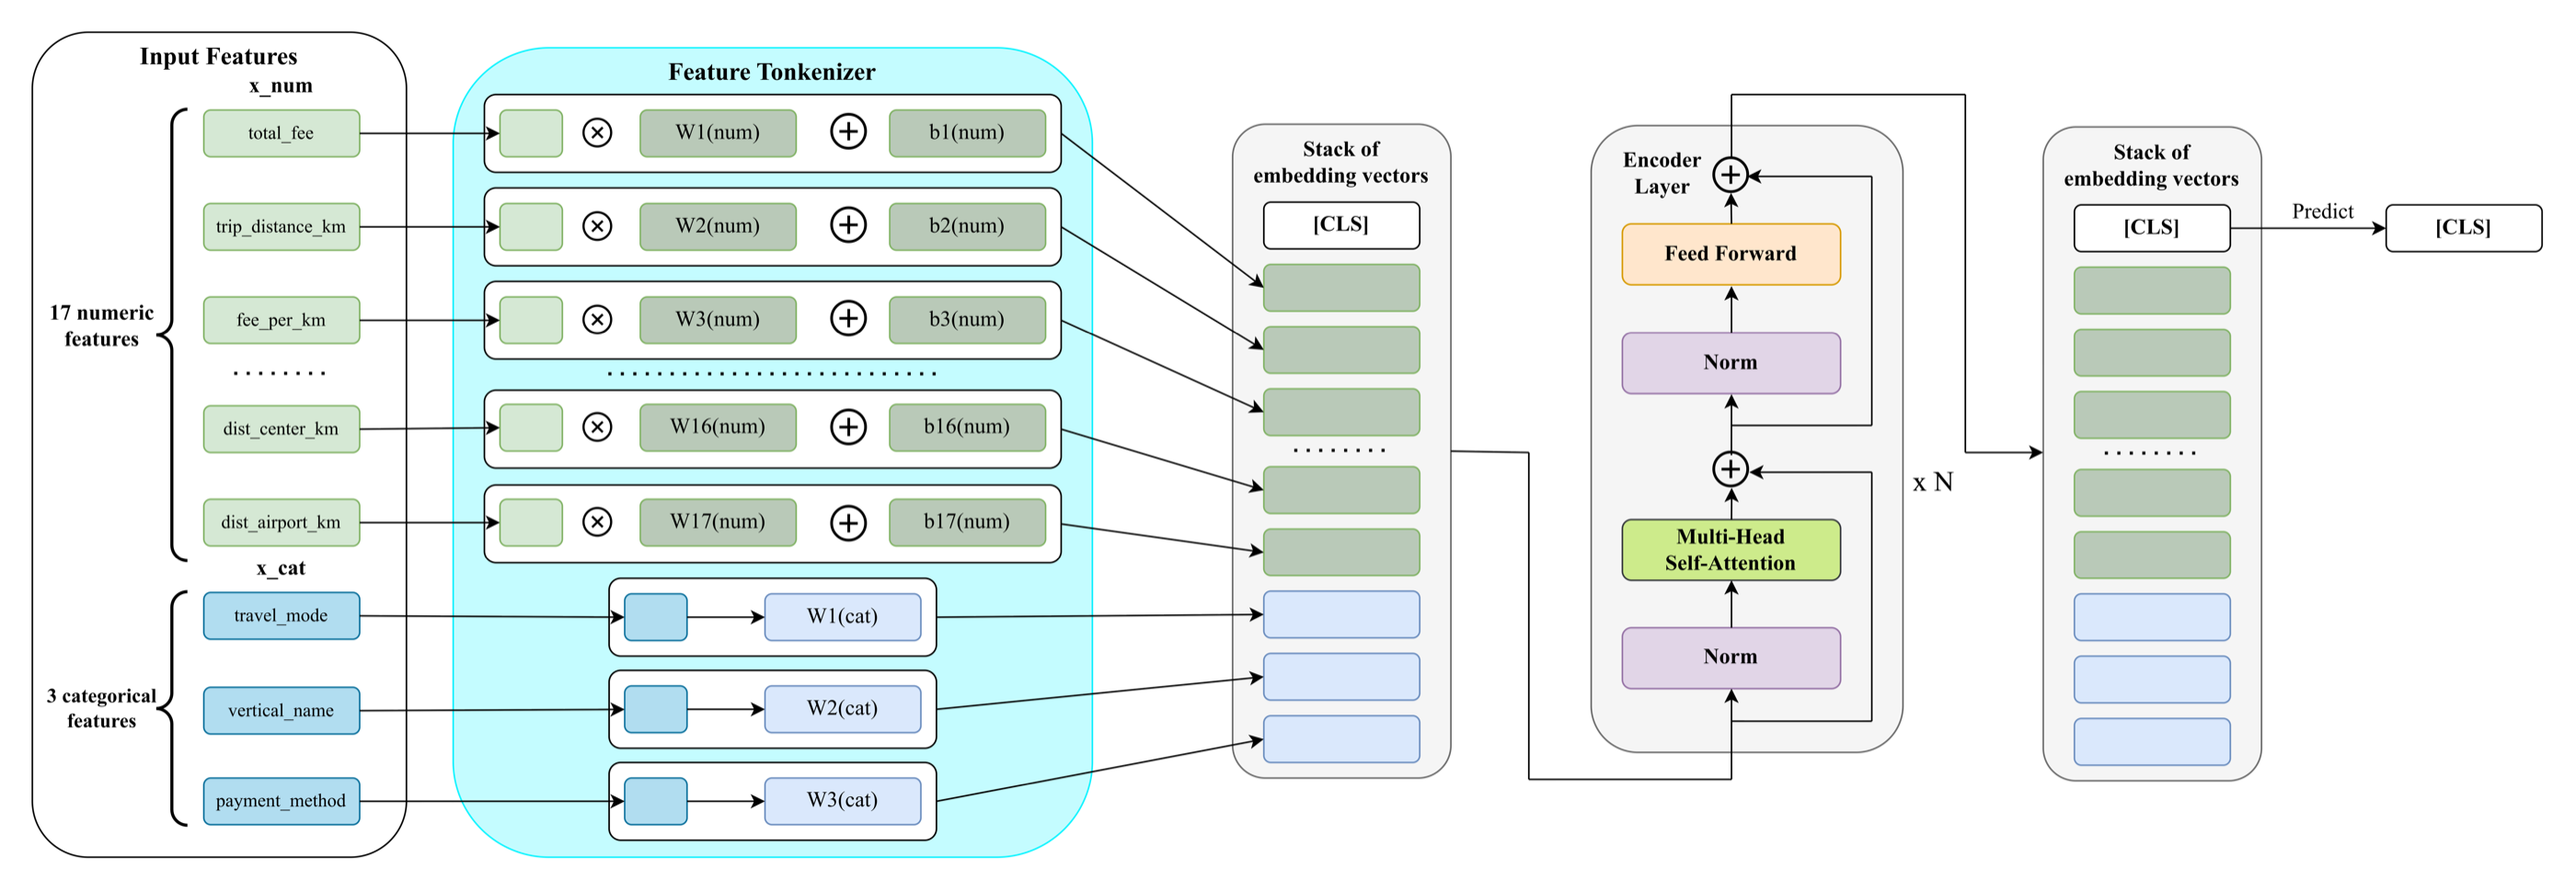
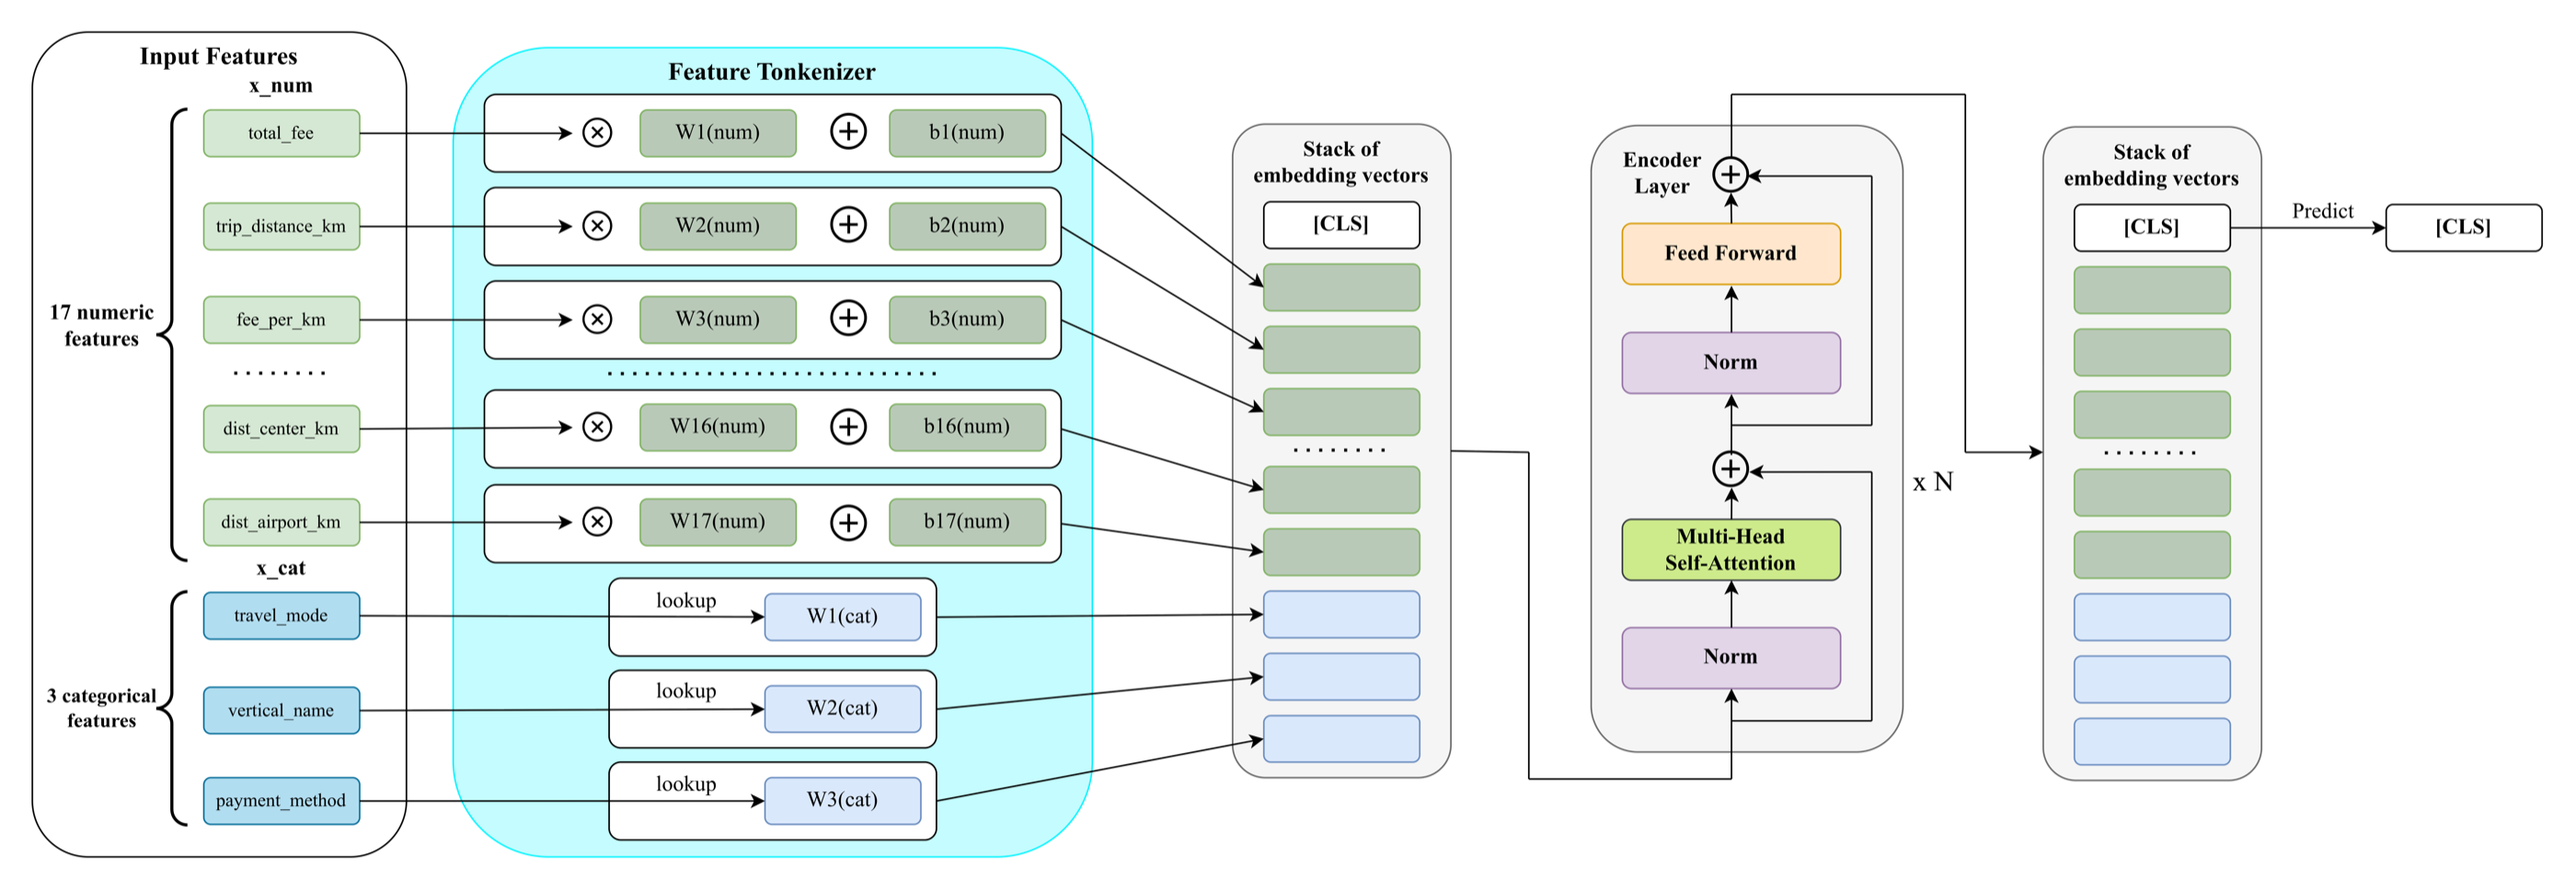
Update FT-Transformer diagram (v3) and add categorical bias note
Diagram: categorical branch now labels the embedding step "lookup"
instead of "project" to avoid implying a linear projection like the
numeric branch. Add a supplementary aside at the end of the
architecture page comparing categorical bias in the paper's formula
and official code vs. this project's code, backed by a real ablation
on the project's own data. Also add print-friendly CSS (hides nav,
shows a link to the live demo) for PDF export.

diff --git a/docs/index.html b/docs/index.html
@@ -20,6 +20,8 @@
 </div></nav>
 <div class="wrap wrap-top">
 
+  <div class="print-only print-banner">Bản demo tương tác (hover xem thống kê thật, dark mode): <a href="https://thanhhiepvo.github.io/Matching-Rider-Acceptance-Rate/">https://thanhhiepvo.github.io/Matching-Rider-Acceptance-Rate/</a></div>
+
   <header class="page">
     <span class="eyebrow">Rider Acceptance Prediction · FT-Transformer</span>
     <h1>Kiến trúc FT-Transformer — sơ đồ &amp; toán học từng bước</h1>
@@ -446,7 +448,7 @@
     <div class="formula-card">
       <div class="label">Categorical feature j</div>
       <div class="katex-formula" data-display="1" data-tex="T_j^{(cat)} = \text{Lookup}\big(W_j^{(cat)},\, x_j\big) \in \mathbb{R}^d"></div>
-      <div class="note">Paper gốc cộng thêm <span class="katex-formula" data-tex="b_j^{(cat)}"></span> vào đây. Code dự án <b>bỏ bias này</b> — đã kiểm chứng bằng thực nghiệm (thêm vào làm Cancel PR-AUC giảm 0,0126 trên tập test) và về mặt toán học nó dư thừa: mỗi hàng trong bảng lookup vốn đã là 1 vector tự do hoàn toàn, cộng thêm 1 bias chung không mở rộng thêm gì để học được.</div>
+      <p style="margin:10px 0 0; font-size:12.5px; color:var(--ink-muted)">Paper gốc có thêm 1 bias ở đây — xem <a href="#cat-bias" style="color:var(--accent-ink)">lưu ý cuối trang</a>.</p>
     </div>
 
     <div class="formula-card">
@@ -524,6 +526,22 @@
       </table>
     </div>
   </section>
+
+  <div class="aside" id="cat-bias">
+    <div class="aside-label">Lưu ý thêm</div>
+    <h2>Categorical có nên có bias không? — khác biệt so với paper</h2>
+    <p class="intro">Điểm khác biệt duy nhất giữa công thức categorical trong code dự án và paper gốc — đào sâu lại vì đây là chi tiết dễ bị hỏi khi trình bày kiến trúc.</p>
+    <div class="note">Paper gốc cộng thêm <span class="katex-formula" data-tex="b_j^{(cat)}"></span> vào công thức categorical (1 vector bias riêng theo từng <b>feature</b>, dùng chung cho mọi giá trị category của feature đó). Nhưng ngay trong code chính thức của tác giả, bias này chỉ là một <b>tuỳ chọn có thể bật/tắt</b> — kèm chú thích nguyên văn: <i>"In the paper, FT-Transformer uses bias=True"</i> — trong khi bias bên numeric thì bắt buộc, không có tuỳ chọn để tắt. Ngay cả tác giả cũng phân biệt 2 loại bias này khác cấp độ.</div>
+    <div class="note">Code dự án <b>bỏ bias categorical</b> — về mặt toán học nó dư thừa: mỗi hàng trong bảng lookup vốn đã là 1 vector tự do hoàn toàn, cộng thêm 1 bias chung không mở rộng thêm gì để học được (khác numeric: thiếu <span class="katex-formula" data-tex="b_j^{(num)}"></span> thì token luôn bằng 0 khi <span class="katex-formula" data-tex="x_j=0"></span> — mất hẳn khả năng affine).</div>
+    <p class="intro" style="margin-top:14px">Kiểm chứng bằng thực nghiệm thật — cùng data, cùng hyperparameter (V2 đã tune), cùng Focal Loss, chỉ đổi đúng 1 biến: có/không bias categorical.</p>
+    <div class="table-wrap">
+      <table class="report">
+        <tr><th>Cấu hình</th><th class="num">ROC-AUC</th><th class="num">Cancel PR-AUC</th><th class="num">Δ Cancel PR-AUC</th></tr>
+        <tr class="win"><td><b>Không bias categorical (code hiện tại)</b></td><td class="num">0,7441</td><td class="num"><b>0,2508</b></td><td class="num">—</td></tr>
+        <tr class="lose"><td>+ bias categorical (khớp công thức paper)</td><td class="num">0,7377</td><td class="num">0,2382</td><td class="num">−0,0126</td></tr>
+      </table>
+    </div>
+  </div>
 
   <footer>
     Rider Acceptance Prediction · nguồn: <code>Baseline/train_ft_transformer.py</code> ·

diff --git a/docs/shared.css b/docs/shared.css
@@ -211,6 +211,26 @@ table.report td.no { color: var(--bad); }
 footer { margin-top: 64px; padding-top: 20px; border-top: 1px solid var(--border); font-size: 12.5px; color: var(--ink-muted); }
 footer code { font-family: "IBM Plex Mono", monospace; background: var(--surface-2); padding: 1px 6px; border-radius: 4px; }
 
+/* Print / PDF export */
+.print-only { display: none; }
+@media print {
+  .print-only { display: block; }
+  nav.sitenav { display: none; }
+  body { background: #fff; }
+  .print-banner {
+    font-family: "IBM Plex Mono", monospace; font-size: 11px; color: #444;
+    background: #f0f1ee; border: 1px solid #ddd; border-radius: 6px;
+    padding: 8px 12px; margin-bottom: 20px;
+  }
+  .print-banner a { color: #0f7d78; }
+  .wrap, .diagram-wrap { max-width: 100% !important; }
+  figure.diagram img { min-width: 0; }
+  .formula-card, .table-wrap, .spec-wrap, .stat-card, .aside, figure.diagram { break-inside: avoid; }
+  section.block, .aside { margin: 28px 0; }
+  .feat-chip .pop { display: none; }
+  a { color: #0f7d78; text-decoration: none; }
+}
+
 /* Flow diagram (business pipeline steps) */
 .flow { display: flex; align-items: stretch; gap: 0; overflow-x: auto; margin: 18px 0; padding: 4px 0 14px; }
 .flow-step { background: var(--surface); border: 1px solid var(--border); border-radius: 10px; box-shadow: var(--shadow);
@@ -231,6 +251,13 @@ footer code { font-family: "IBM Plex Mono", monospace; background: var(--surface
 .kw-row { display: flex; flex-wrap: wrap; gap: 6px; margin-top: 10px; }
 .kw-row .kw { font-family: "IBM Plex Mono", monospace; font-size: 11.5px; background: var(--surface-2); border: 1px solid var(--border-soft);
   border-radius: 100px; padding: 3px 10px; color: var(--ink-soft); }
+
+/* Aside — supplementary callout, NOT part of the main numbered section flow */
+.aside { margin: 56px 0; padding: 24px 26px 28px; background: var(--surface-2); border: 1px dashed var(--border); border-radius: 14px; }
+.aside-label { font-family: "IBM Plex Mono", monospace; font-size: 11px; text-transform: uppercase; letter-spacing: 0.06em; color: var(--ink-muted); margin-bottom: 10px; }
+.aside h2 { font-family: "IBM Plex Serif", Georgia, serif; font-size: 20px; font-weight: 700; margin: 0 0 6px; }
+.aside > .intro { color: var(--ink-soft); font-size: 15px; max-width: 68ch; margin: 10px 0 18px; }
+.aside .formula-card, .aside .table-wrap { background: var(--surface); }
 
 figure.report-fig { margin: 16px 0; background: var(--surface); border: 1px solid var(--border); border-radius: 10px; box-shadow: var(--shadow); padding: 14px; }
 figure.report-fig img { display: block; width: 100%; height: auto; border-radius: 4px; }
